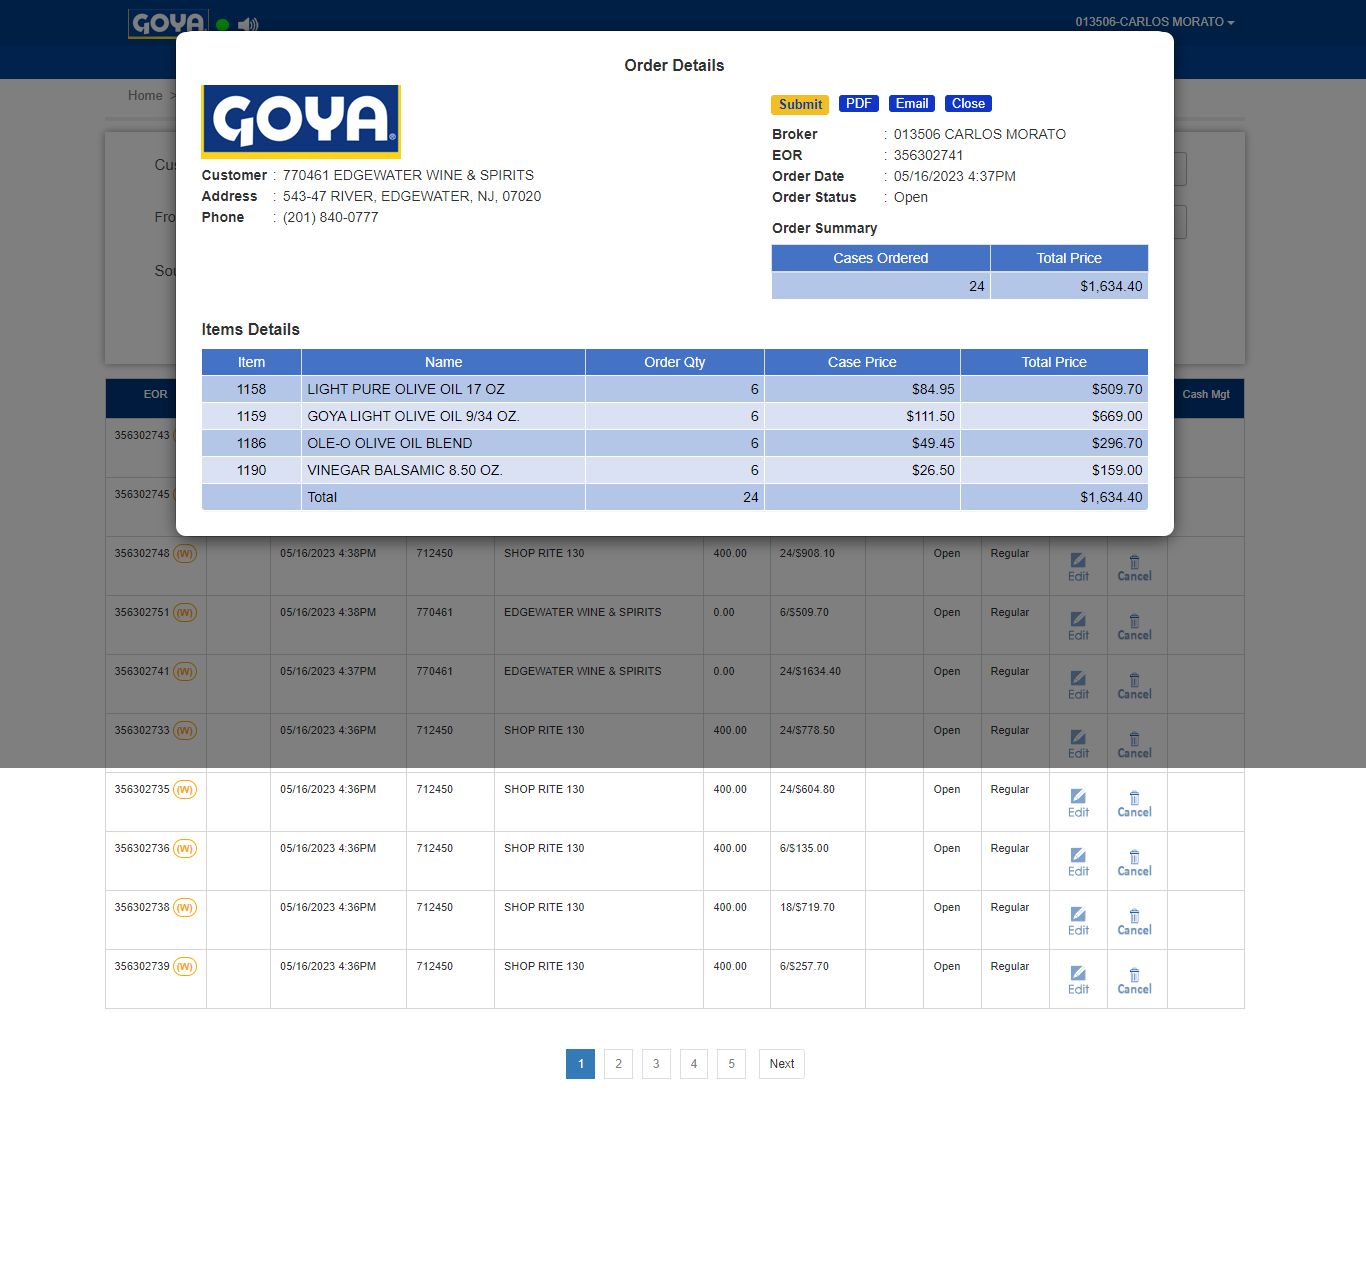
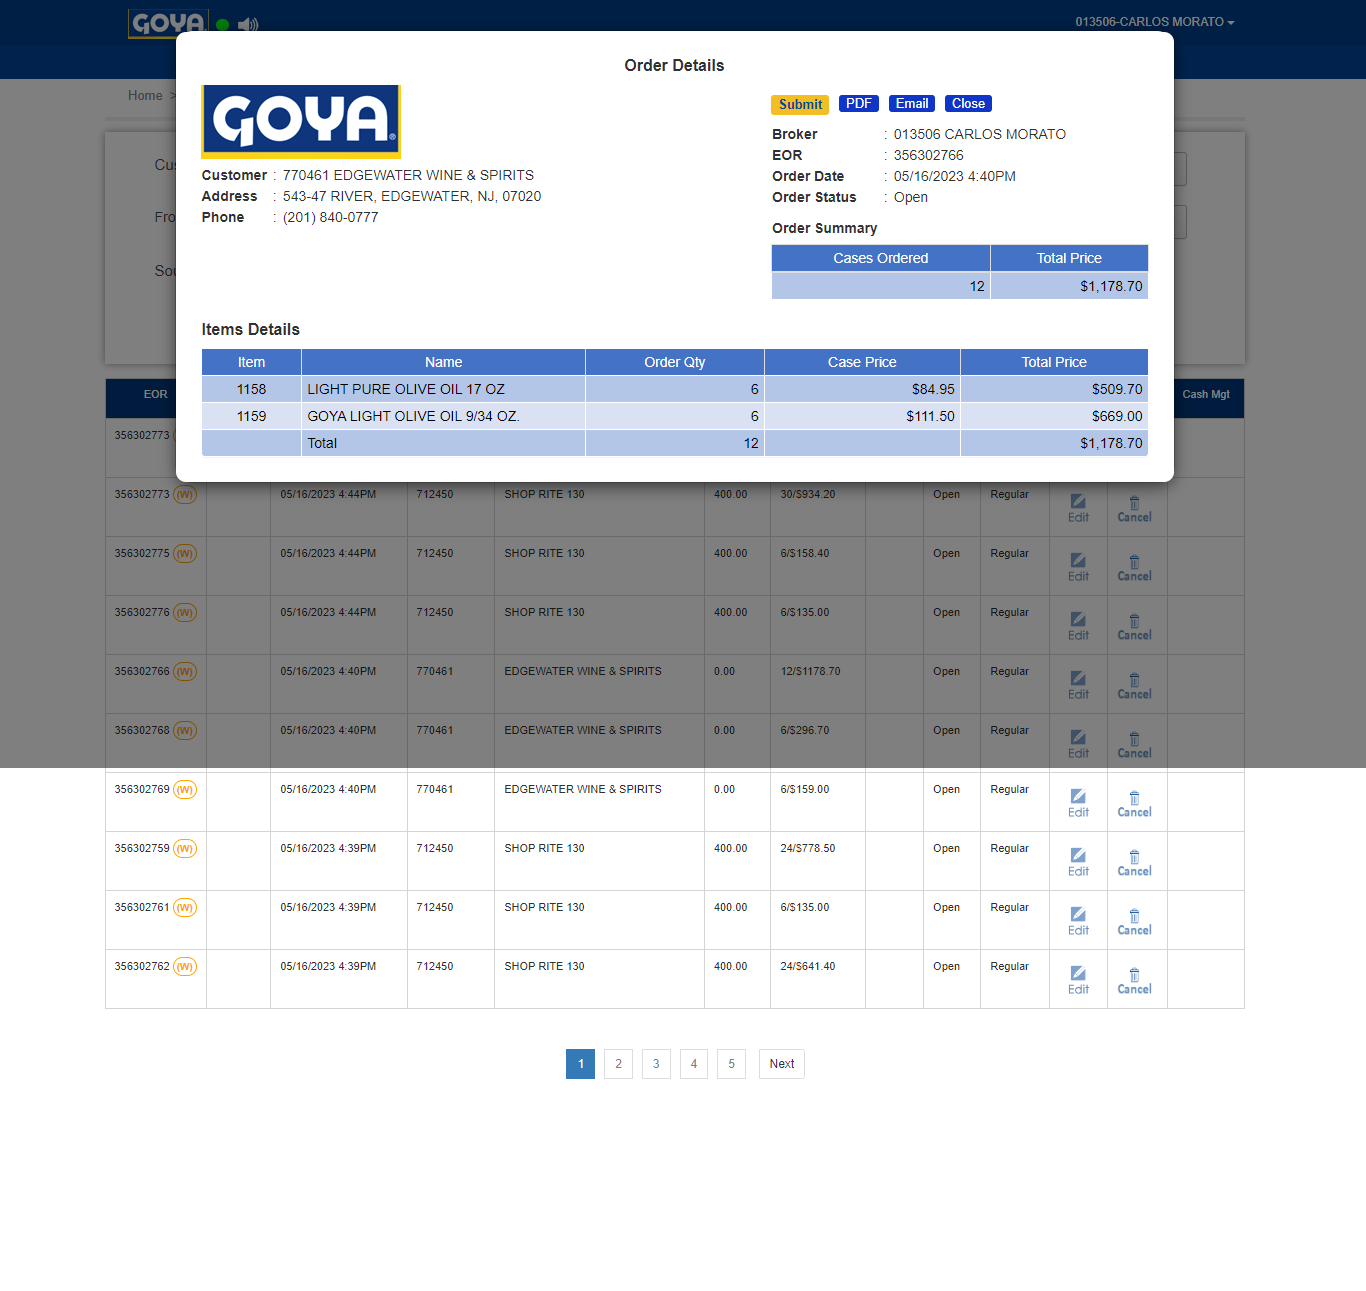
OrderStatus1705

diff --git a/tests/Orderstatus.spec.js b/tests/Orderstatus.spec.js
@@ -31,7 +31,7 @@ test('Order Status', async ({ page }) => {
     await page.getByRole('button', { name: 'Status focus' }).press('ScrollLock');
     await page.getByRole('option', { name: 'Open', exact: true }).getByText('Open').click();
     await page.waitForTimeout(10000)
-    await page.getByRole('cell', { name: '356302741 (W)' }).click();
+    await page.getByRole('cell', { name: '356302766 (W)' }).click();
     await page.screenshot({ path: "Pdf.png", fullPage: true })
     const downloadPromise = page.waitForEvent('download');
     await page.locator('#pdf').getByText('PDF').click();
